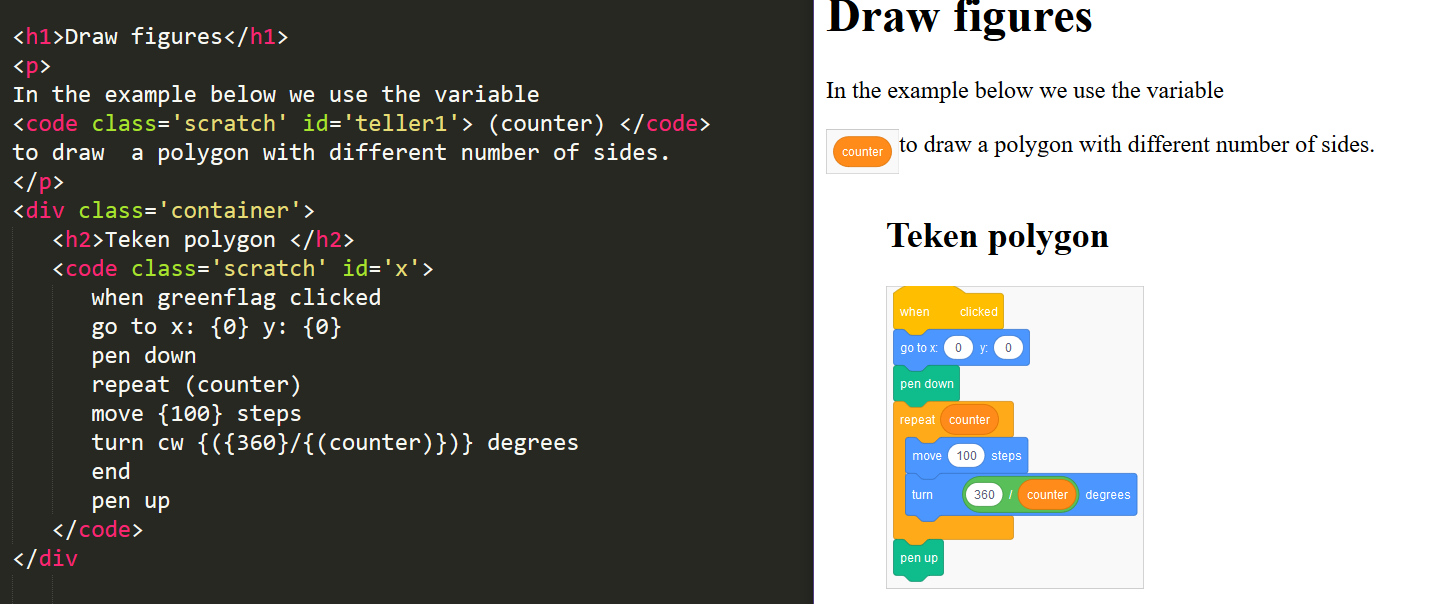
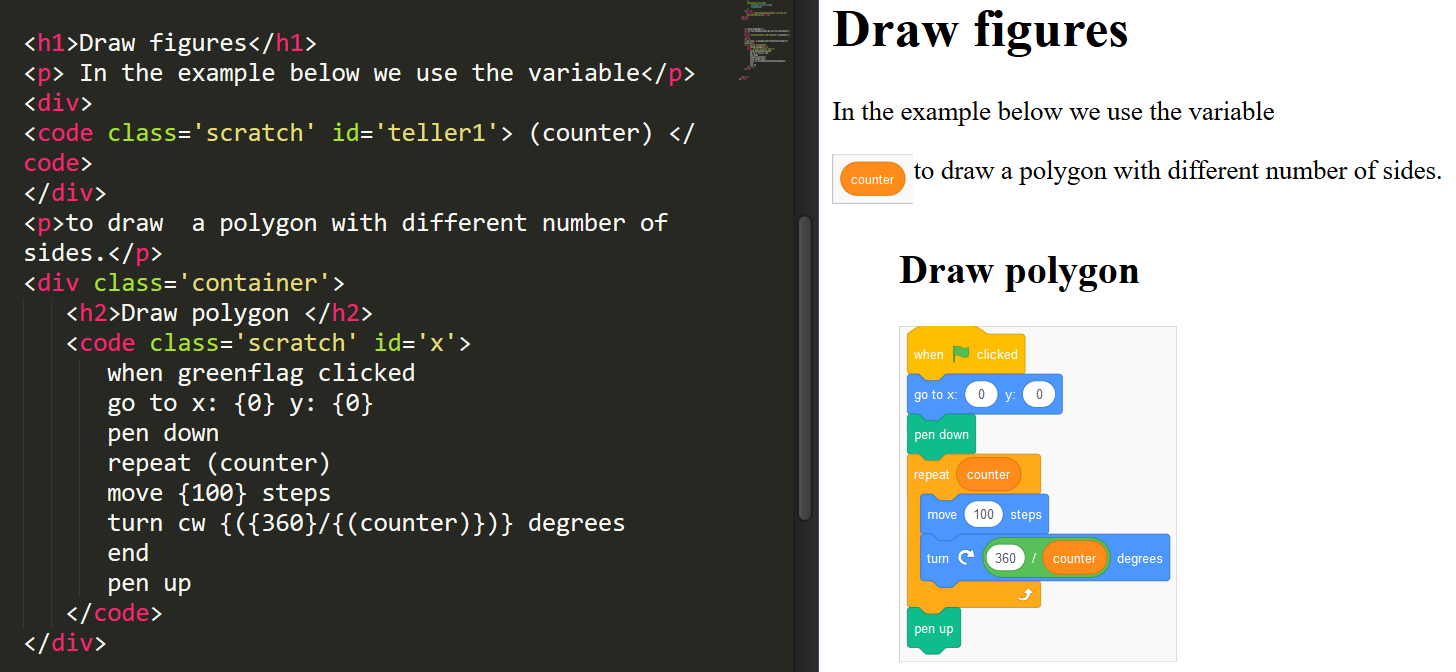
update image

Changed region(s): [[0.0, 0.0, 0.9846, 1.0], [0.6154, 0.4768, 0.8308, 0.9834], [0.6154, 0.3576, 0.8, 0.447]]

diff --git a/examples/simple_en.html b/examples/simple_en.html
@@ -22,7 +22,7 @@
       </div>
       <p>to draw  a polygon with different number of sides.</p>
       <div class='container'>
-         <h2>Teken polygon </h2>
+         <h2>Draw polygon </h2>
          <code class='scratch' id='x'>
             when greenflag clicked
             go to x: {0} y: {0}
